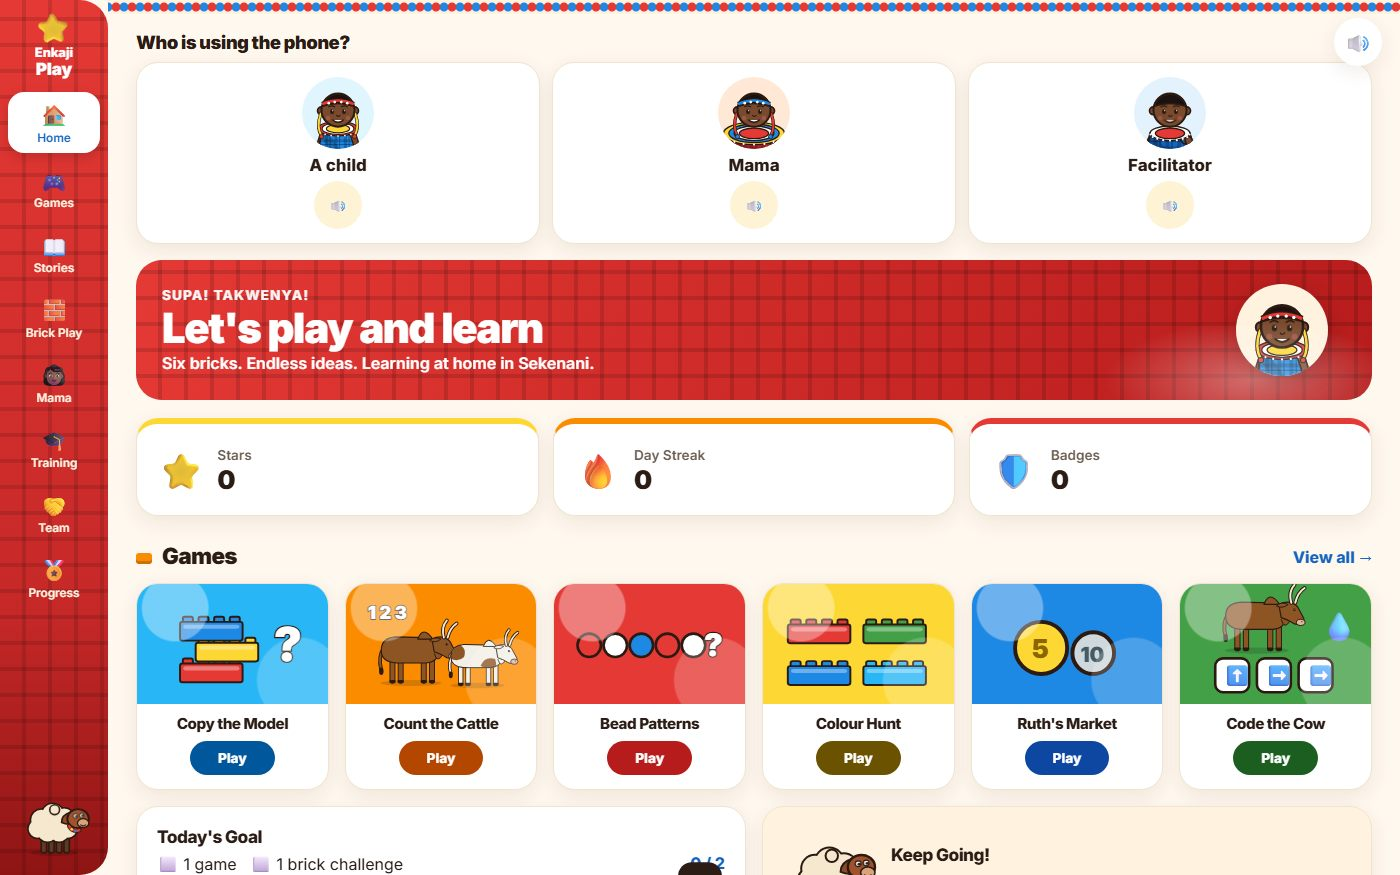
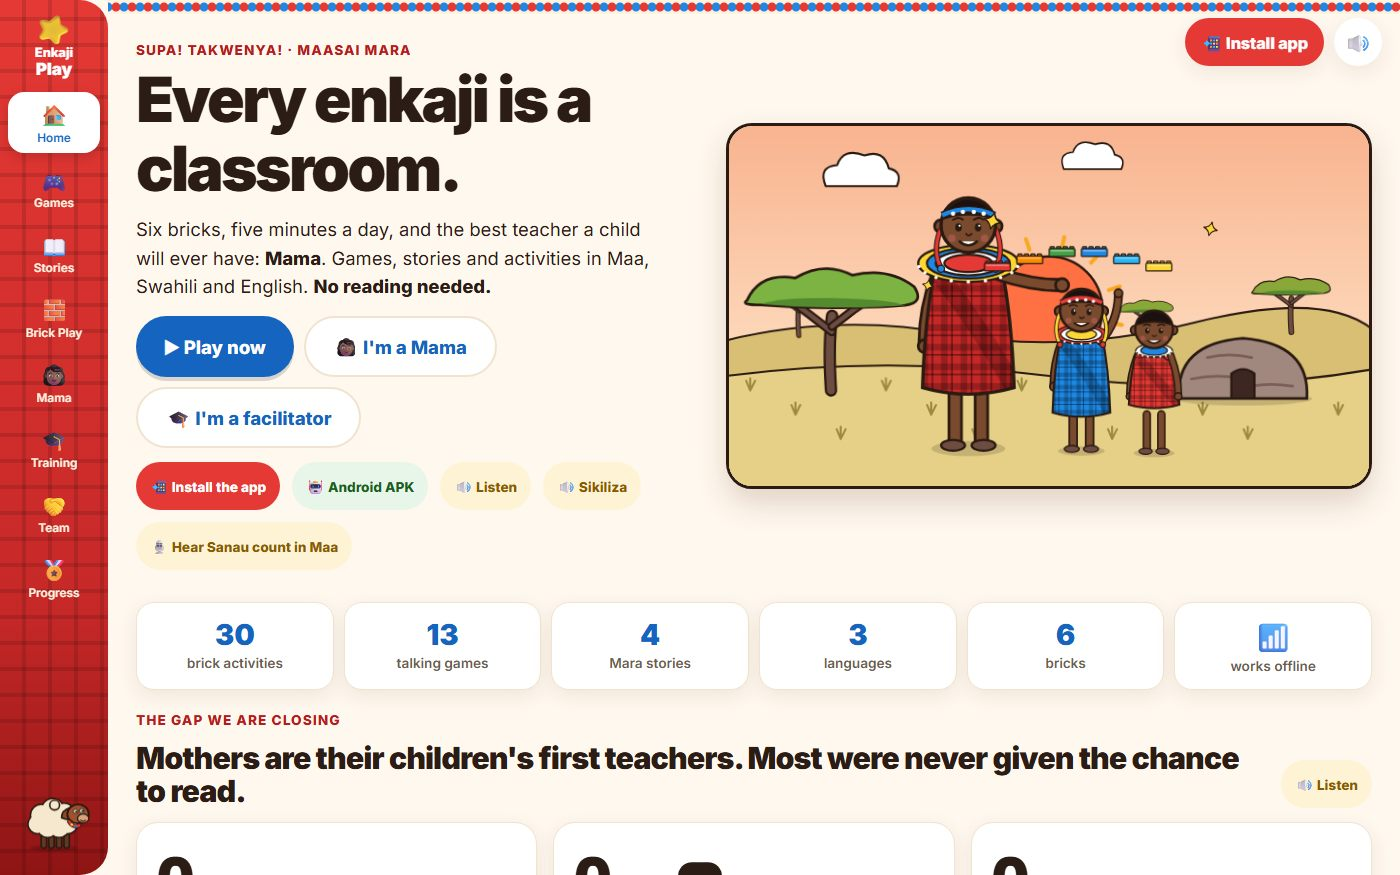
Refresh the Enkaji Play preview and figures

diff --git a/experience.html b/experience.html
@@ -215,11 +215,11 @@
             </ul>
             <div class="tl-projects tl-projects-one">
               <a class="tl-project" href="https://enkaji-play.vercel.app/" target="_blank" rel="noopener">
-                <img src="experience-enkaji-play.jpg" alt="Enkaji Play home screen: choose child, Mama or facilitator, a Let's play and learn banner, and games such as Count the Cattle and Code the Cow" width="1400" height="875" loading="lazy" decoding="async">
+                <img src="experience-enkaji-play.jpg?v=2" alt="Enkaji Play home page: Every enkaji is a classroom, with a Maasai mother and two children playing with coloured bricks outside their home, and buttons for Play now, I'm a Mama and I'm a facilitator" width="1400" height="875" loading="lazy" decoding="async">
                 <span class="tl-project-body">
                   <strong>Enkaji Play</strong>
-                  <span>In Sekenani, mothers are teaching their PP1 to Grade 3 children at home, and not every mother reads. Enkaji Play, Maa for "home", puts Six Bricks learning through play on the family phone, built so a mother can lead it whatever her reading level.</span>
-                  <span><b>Mothers Who Teach</b> get a Mama page with games to play together, activities explained by voice, and a recorder to save Maa words in their own voice. <b>Facilitators</b>, a local team of six, train through six modules, one per brick colour, and print activity cards for home visits. <b>Children</b> play 24 brick activities, games like Count the Cattle and Code the Cow, unplugged coding and narrated stories, with numbers and colours spoken in Maa by a local speaker.</span>
+                  <span>Every enkaji is a classroom. Mothers are their children's first teachers, and most in Sekenani were never given the chance to read. Enkaji Play, Maa for "home", puts Six Bricks learning through play on the family phone: six bricks, five minutes a day, in Maa, Swahili and English, with no reading needed.</span>
+                  <span><b>Mothers Who Teach</b> get a Mama page with games to play together, every activity read aloud, and a recorder to save Maa words in their own voice. <b>Facilitators</b>, a local team of six, train through six modules, one per brick colour, and print activity cards for home visits. <b>Children</b> get 30 brick activities, 13 talking games such as Count the Cattle and Code the Cow, unplugged coding and 4 Mara stories, with numbers and colours spoken in Maa by a local speaker. It installs like an app and works offline.</span>
                   <em>Open Enkaji Play</em>
                 </span>
               </a>
